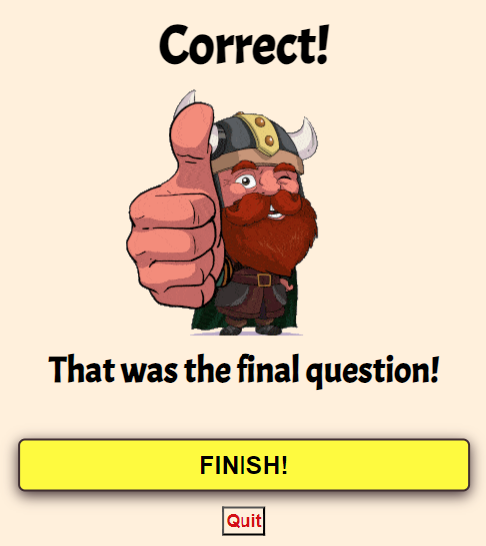
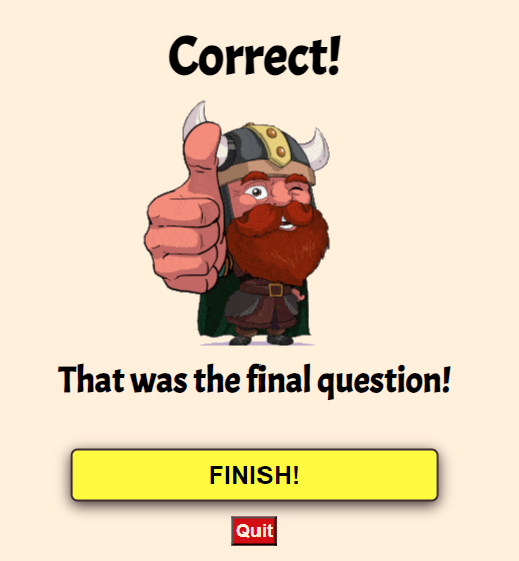
Add final images to README with red quit boxes

Changed region(s): [[0.0926, 0.0311, 0.9259, 0.7161], [0.0, 0.7784, 0.9877, 0.9963]]

diff --git a/index.html b/index.html
@@ -97,12 +97,10 @@
                 <li>
                     On the left there is a description of a famous Viking from the Viking Age.
                 </li>
-                <li></li>
                 <li>
                     On the right there are 9 tiles with simple facts, only one of which are true for the Viking on the
                     left.
-                </li>
-                <li></li>    
+                </li>   
                 <li>
                     Select and click on the tile you think matches the Viking!
                 </li>
@@ -127,7 +125,7 @@
             <!-- Vikings section -->
             <div class="viking-details">
                 <!-- Rollo -->
-                <section id="rollo" class="viking-biog" data-topic="rolloData">
+                <div id="rollo" class="viking-biog" data-topic="rolloData">
                     <div class="viking-name">
                         <h2>
                             Rollo of Normandy
@@ -152,9 +150,9 @@
                         <br>
                         The Treaty of Saint Claire-sur-Epte made Rollo the first duke of Normandy.
                     </p>
-                </section>
+                </div>
                 <!-- Olav Haraldsson -->
-                <section id="olav-haraldsson" class="viking-biog" data-topic="olavData">
+                <div id="olav-haraldsson" class="viking-biog" data-topic="olavData">
                     <div class="viking-name">
                         <h2>
                             Olav Haraldsson
@@ -179,7 +177,7 @@
                         Viking faith. He is known as St. Olav,
                         the patron saint of Norway.
                     </p>
-                </section>
+                </div>
                 <!-- Leif Erikson -->
                 <section id="leif-erikson" class="viking-biog" data-topic="leifData">
                     <div class="viking-name">
@@ -207,7 +205,7 @@
                     </p>
                 </section>
                 <!-- Harald Hardrada -->
-                <section id="harald-hardrada" class="viking-biog" data-topic="haraldData">
+                <div id="harald-hardrada" class="viking-biog" data-topic="haraldData">
                     <div class="viking-name">
                         <h2>
                             Harald Hardrada
@@ -233,9 +231,9 @@
                         throne, effectively
                         bringing the Viking Age to an end.
                     </p>
-                </section>
+                </div>
                 <!-- Cnut the Great -->
-                <section id="cnut-the-great" class="viking-biog" data-topic="cnutData">
+                <div id="cnut-the-great" class="viking-biog" data-topic="cnutData">
                     <div class="viking-name">
                         <h2>
                             Cnut the Great
@@ -260,7 +258,7 @@
                         Cnut famously once tried to order the tide back from the shore, and when the tide still came in
                         as usual acclaimed that no earthly king could compare with God.
                     </p>
-                </section>
+                </div>
             </div>
             <section class="game-area">
                 <div class="question-area">

diff --git a/assets/css/style.css b/assets/css/style.css
@@ -209,8 +209,8 @@ ol {
     justify-content: center;
     align-items: center;
     margin: auto;
-    background-color: rgba(211, 0, 0, 0.9);
-    color: white;
+    background-color: rgba(255, 248, 240, 1);
+    color: black;
     padding: 10px;
     width: 80%;
 }
@@ -349,8 +349,8 @@ ol {
     display: inline-flex;
     justify-content: space-evenly;
     align-items: center;
-    background-color: rgba(211, 0, 0, 0.9);
-    color: white;
+    background-color: rgba(255, 248, 240, 1);
+    color: black;
     width: 80%;
     padding: 10px;
     margin: auto;
@@ -363,7 +363,6 @@ ol {
 
 #right {
     color: green;
-    background-color: #fff0db;
     font-size: 110%;
     font-weight: bold;
     padding-right: 10px;
@@ -374,7 +373,6 @@ ol {
 
 #wrong {
     color: red;
-    background-color: #fff0db;
     font-size: 110%;
     font-weight: bold;
     padding-right: 10px;
@@ -384,8 +382,8 @@ ol {
 }
 
 .quit-button {
-    background-color: #fff0db;
-    color: #d30000;
+    background-color: #d30000;
+    color: #fff0db;
     font-weight: bold;
     padding: 2px;
     font-size: 50%;
@@ -493,7 +491,6 @@ ol {
     justify-content: center;
     color: black;
     background: #fffb00;
-    border: 2px solid #5f4c4c;
     font-weight: bold;
     text-align: center;
     text-transform: uppercase;
@@ -527,7 +524,6 @@ ol {
     justify-content: center;
     color: black;
     background: #fffb00;
-    border: 2px solid #5f4c4c;
     font-weight: bold;
     text-align: center;
     text-transform: uppercase;
@@ -658,7 +654,6 @@ ol {
     justify-content: center;
     color: black;
     background: #fffb00;
-    border: 2px solid #5f4c4c;
     font-weight: bold;
     text-align: center;
     text-transform: uppercase;
@@ -691,7 +686,6 @@ ol {
     justify-content: center;
     color: black;
     background: #fffb00;
-    border: 2px solid #5f4c4c;
     font-weight: bold;
     text-align: center;
     text-transform: uppercase;

diff --git a/README.md b/README.md
@@ -291,7 +291,7 @@ The website displays correctly across the different browsers, and also across di
 
 ![JavaScript Validator](/documentation/images/validator-js.png)
 
-- The JS Validator (https://jshint.com/) found 19 warnings, and no errors. The warnings relate to structure rather than functionality, e.g. the placement of functions in the more complex functions -where no alternative has been found. The warnings do not affect user experience.
+- The JS Validator (https://jshint.com/) found 1 warning and no errors. The warning relates to the use of 'answerIndex[i]' in code matching tiles to question, but it does not appear to affect the user experience.
 
 ---
 
